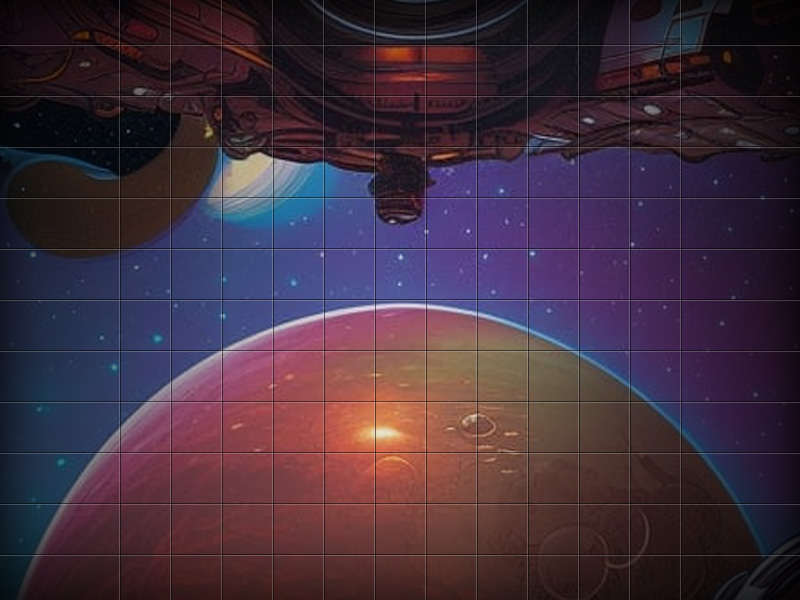
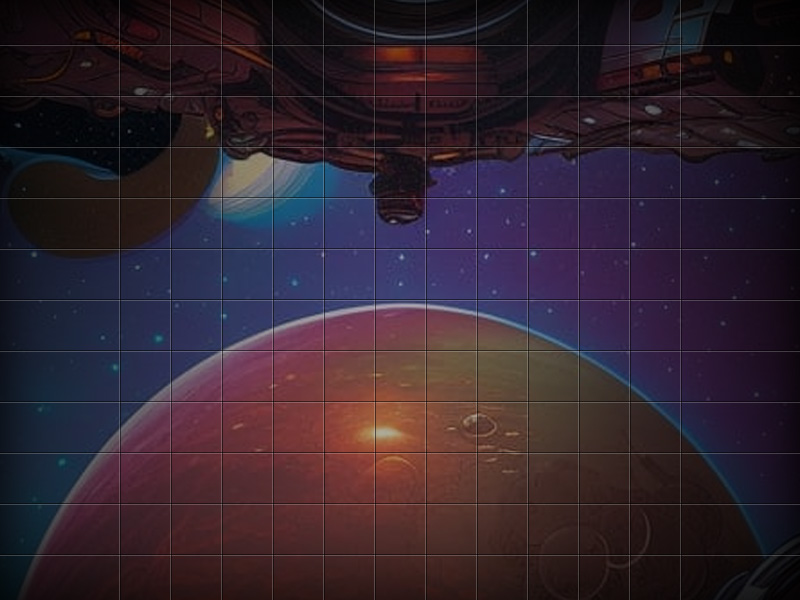
removed planet, updated bg image

diff --git a/breakout.cpp b/breakout.cpp
@@ -42,29 +42,15 @@ void Breakout::initialize(HWND hwnd)
 //=============================================================================
 void Breakout::initSprites() {
     // nebula texture
-    if (!nebulaTexture.initialize(graphics, BG_PATH))
+    if (!backgroundTexture.initialize(graphics, BG_PATH))
     {
         throw(GameError(gameErrorNS::FATAL_ERROR, "Error initializing nebula texture"));
     }
     // nebula
-    if (!nebula.initialize(graphics, 0, 0, 0, &nebulaTexture))
+    if (!backgroundImage.initialize(graphics, 0, 0, 0, &backgroundTexture))
     {
         throw(GameError(gameErrorNS::FATAL_ERROR, "Error initializing nebula image"));
     }
-
-    // planet texture
-    if (!planetTexture.initialize(graphics, PLANET_PATH))
-    {
-        throw(GameError(gameErrorNS::FATAL_ERROR, "Error initializing planet texture"));
-    }
-    // planet
-    if (!planet.initialize(graphics, 0, 0, 0, &planetTexture))
-    {
-        throw(GameError(gameErrorNS::FATAL_ERROR, "Error initializing planet image"));
-    }
-    // center planet, uses * 0.5 instead of / 2... performance likely?
-    planet.setX(GAME_WIDTH * 0.5f - planet.getWidth() * 0.5f);
-    planet.setY(GAME_HEIGHT * 0.5f - planet.getHeight() * 0.5f);
 
     // ship texture
     if (!shipTex.initialize(graphics, SHIP_PATH))
@@ -100,26 +86,9 @@ void Breakout::update()
  
     // handle input controls
     handleInputAndMomentum();   
-    //doCircle();
 
     // check edge bounds
     wrapScreenEdge();
-}
-
-void Breakout::doCircle()
-{
-    // circle challenge
-    // move in circle around planet
-    /*
-    Set x to (RADIUS*Sin(ANGLE))
-    Set y to (RADIUS*Cos(ANGLE))
-    */
-    //float speed = 
-
-    // speed here is the radius of the circle
-    radians += 0.03f;
-    ship.setX(GAME_WIDTH / 2 - SHIP_WIDTH / 2 + cos(radians) * SHIP_SPEED);
-    ship.setY(GAME_HEIGHT / 2 - SHIP_HEIGHT / 2 + sin(radians) * SHIP_SPEED);
 }
 
 //=============================================================================
@@ -203,8 +172,7 @@ void Breakout::render()
 {
     try {
         graphics->spriteBegin();
-        nebula.draw();
-        planet.draw();
+        backgroundImage.draw();
         ship.draw();
         graphics->spriteEnd();
     }
@@ -233,7 +201,7 @@ void Breakout::CheckForExit() {
 //=============================================================================
 void Breakout::releaseAll()
 {
-    nebulaTexture.onLostDevice();
+    backgroundTexture.onLostDevice();
     planetTexture.onLostDevice();
     shipTex.onLostDevice();
     
@@ -247,7 +215,7 @@ void Breakout::releaseAll()
 //=============================================================================
 void Breakout::resetAll()
 {
-    nebulaTexture.onResetDevice();
+    backgroundTexture.onResetDevice();
     planetTexture.onResetDevice();
     shipTex.onResetDevice();
 

diff --git a/breakout.h b/breakout.h
@@ -18,11 +18,10 @@ class Breakout : public Game
 {
 private:
     // variables
-    TextureManager nebulaTexture;
+    TextureManager backgroundTexture;
     TextureManager planetTexture;
     TextureManager shipTex;
-    Image nebula;
-    Image planet;
+    Image backgroundImage;
     Image ship;
     float velocityX;
     float velocityY;
